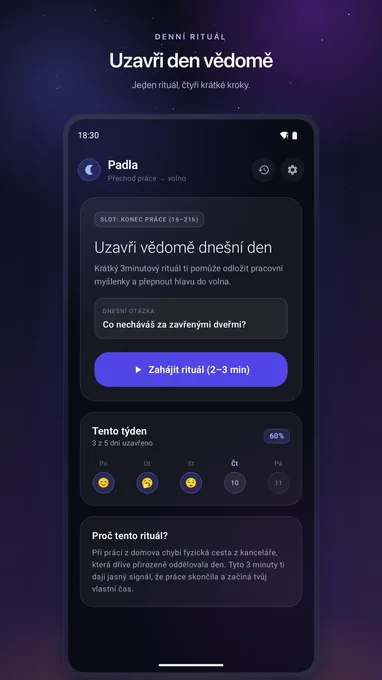
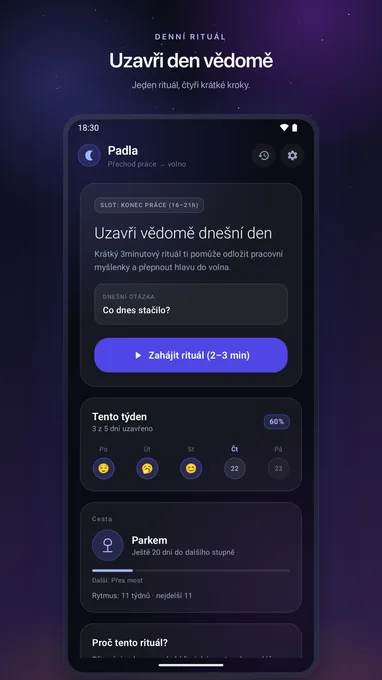
CL-WEB: česká verze webu s novinkami 1.3.0, navigace na úzkých displejích
- sekce Cesta domů a Noční obloha, aktualizované funkce a soukromí
- osm českých screenshotů z Google Play 1.3.0
- název aplikace v české verzi sjednocen na Padla
- navigace postupně skrývá odkazy, aby se vešla i na úzké displeje

diff --git a/cs/index.html b/cs/index.html
@@ -11,7 +11,7 @@
 })();
 </script>
 <meta name="viewport" content="width=device-width, initial-scale=1.0">
-<title>ClockOut — Ukonči pracovní den vědomě</title>
+<title>Padla — Ukonči pracovní den vědomě</title>
 <meta name="description" content="Tříminutový rituál na konec pracovního dne, aby nezasahoval do večera. Zdarma, soukromé, bez reklam.">
 <link rel="canonical" href="https://ruzickaond.github.io/clockout-app-web/cs/">
 <link rel="alternate" hreflang="en" href="https://ruzickaond.github.io/clockout-app-web/">
@@ -23,12 +23,12 @@
 <link rel="manifest" href="../site.webmanifest">
 
 <meta property="og:type" content="website">
-<meta property="og:title" content="ClockOut — Ukonči pracovní den vědomě">
+<meta property="og:title" content="Padla — Ukonči pracovní den vědomě">
 <meta property="og:description" content="Tříminutový rituál na konec pracovního dne, aby nezasahoval do večera. Zdarma, soukromé, bez reklam.">
 <meta property="og:url" content="https://ruzickaond.github.io/clockout-app-web/cs/">
 <meta property="og:image" content="https://play-lh.googleusercontent.com/MNSv7ECEiLILvRtvFfzArZCT3wae8mAfHuKnqLDiFg-m8raJEzzhiiYgs5hn_9fF_Y8qldCKCaHu7s63d5mgTw=w512-h512">
 <meta name="twitter:card" content="summary">
-<meta name="twitter:title" content="ClockOut — Ukonči pracovní den vědomě">
+<meta name="twitter:title" content="Padla — Ukonči pracovní den vědomě">
 <meta name="twitter:description" content="Tříminutový rituál na konec pracovního dne, aby nezasahoval do večera.">
 <meta name="twitter:image" content="https://play-lh.googleusercontent.com/MNSv7ECEiLILvRtvFfzArZCT3wae8mAfHuKnqLDiFg-m8raJEzzhiiYgs5hn_9fF_Y8qldCKCaHu7s63d5mgTw=w512-h512">
 
@@ -36,7 +36,8 @@
 {
   "@context": "https://schema.org",
   "@type": "SoftwareApplication",
-  "name": "ClockOut",
+  "name": "Padla",
+  "alternateName": "ClockOut",
   "operatingSystem": "ANDROID",
   "applicationCategory": "LifestyleApplication",
   "url": "https://ruzickaond.github.io/clockout-app-web/cs/",
@@ -123,6 +124,7 @@
   }
 
   .site-nav a{
+    white-space:nowrap;
     font-size:14px;
     color:var(--muted);
     text-decoration:none;
@@ -149,6 +151,25 @@
 
   @media (max-width:560px){
     .site-nav ul{ gap:18px; }
+  }
+
+  @media (max-width:420px){
+    .site-nav ul{ gap:12px; }
+    .site-nav a{ font-size:13px; }
+    .site-nav .mark{ font-size:17px; }
+  }
+
+  /* The sections hidden first sit directly below the ones still linked. */
+  @media (max-width:520px){
+    .site-nav .nav-screens{ display:none; }
+  }
+
+  @media (max-width:440px){
+    .site-nav .nav-ritual{ display:none; }
+  }
+
+  @media (max-width:374px){
+    .site-nav .nav-details{ display:none; }
   }
 
   /* ---------- Hero ---------- */
@@ -306,6 +327,13 @@
     font-weight:600;
     font-size:17px;
     margin:0 0 6px;
+  }
+
+  .step-icon{
+    width:24px;
+    height:24px;
+    display:block;
+    margin-top:4px;
   }
 
   .step p{
@@ -524,11 +552,12 @@
 
 <nav class="site-nav">
   <div class="wrap">
-    <span class="mark">ClockOut</span>
+    <span class="mark">Padla</span>
     <ul>
-      <li><a href="#ritual">Rituál</a></li>
-      <li><a href="#screens">Ukázky</a></li>
-      <li><a href="#details">Podrobnosti</a></li>
+      <li class="nav-ritual"><a href="#ritual">Rituál</a></li>
+      <li><a href="#way-home">Cesta domů</a></li>
+      <li class="nav-screens"><a href="#screens">Ukázky</a></li>
+      <li class="nav-details"><a href="#details">Podrobnosti</a></li>
       <li><a class="lang-switch" href="../" onclick="try{localStorage.setItem('clockout-lang','en')}catch(e){}">EN</a></li>
     </ul>
   </div>
@@ -545,7 +574,7 @@
     </div>
     <h1>Pracovní den si zaslouží konec, ne pozvolné vyznění.</h1>
     <p class="lede">Tříminutový rituál na konec práce z domova — aby zavření notebooku doopravdy znamenalo konec dne.</p>
-    <a class="cta" href="https://play.google.com/store/apps/details?id=org.clockout&hl=cs" aria-label="Stáhnout ClockOut na Google Play">
+    <a class="cta" href="https://play.google.com/store/apps/details?id=org.clockout&hl=cs" aria-label="Stáhnout aplikaci Padla na Google Play">
       <img class="cta-badge" width="253" height="98" src="https://play.google.com/intl/en_us/badges/static/images/badges/cs_badge_web_generic.png" alt="Stáhnout na Google Play" onerror="this.style.display='none'; this.nextElementSibling.style.display='inline-flex';">
       <span class="cta-fallback">
         <svg viewBox="0 0 24 24" fill="currentColor" xmlns="http://www.w3.org/2000/svg"><path d="M8 5v14l11-7z"/></svg>
@@ -568,7 +597,7 @@
         <div class="num">2</div>
         <div>
           <h3>Dýchej</h3>
-          <p>Pomalý rytmus čtyři sekundy nádech, čtyři sekundy výdech, s jemným vizuálním pulzem a možností ambientního zvuku.</p>
+          <p>Pomalý rytmus čtyři sekundy nádech, čtyři sekundy výdech, se čtyřmi animacemi na výběr, volitelným zvukovým doprovodem a jemnou haptikou.</p>
         </div>
       </div>
       <div class="step">
@@ -588,26 +617,65 @@
     </div>
   </section>
 
+  <section id="way-home">
+    <h2>Každý večer o kus blíž domů.</h2>
+    <div class="ritual">
+      <div class="step">
+        <div class="num">
+          <svg class="step-icon" viewBox="0 0 24 24" aria-hidden="true"><path d="M4 20c4-2 5-6 8-8s5-1 8-6" fill="none" stroke="currentColor" stroke-width="1.8" stroke-linecap="round"/><circle cx="20" cy="6" r="2" fill="currentColor"/></svg>
+        </div>
+        <div>
+          <h3>Cesta domů</h3>
+          <p>Práce z domova vzala cestu z kanceláře, která dřív den přirozeně ukončila. Každý uzavřený den tě po ní posune o kus dál — deset stupňů, od Zaklapnutého notebooku přes Most a Branku až po Doma.</p>
+        </div>
+      </div>
+      <div class="step">
+        <div class="num">
+          <svg class="step-icon" viewBox="0 0 24 24" aria-hidden="true"><path d="M5 7l5 3 4-4 5 7" fill="none" stroke="currentColor" stroke-width="1.4" stroke-linecap="round" stroke-linejoin="round" opacity="0.6"/><circle cx="5" cy="7" r="1.8" fill="currentColor"/><circle cx="10" cy="10" r="1.8" fill="currentColor"/><circle cx="14" cy="6" r="1.8" fill="currentColor"/><circle cx="19" cy="13" r="1.8" fill="currentColor"/><circle cx="8" cy="18" r="1.2" fill="currentColor" opacity="0.6"/></svg>
+        </div>
+        <div>
+          <h3>Noční obloha</h3>
+          <p>Za každý uzavřený den se rozsvítí hvězda v barvě nálady, se kterou jsi den zavřel(a). Když je týden v rytmu, hvězdy se spojí do souhvězdí — každý z 53 týdnů v roce má to své, od Hrnku čaje v lednu po Jedličku v prosinci, a každý rok se vrací.</p>
+        </div>
+      </div>
+      <div class="step">
+        <div class="num">
+          <svg class="step-icon" viewBox="0 0 24 24" aria-hidden="true"><path d="M12 3c-3 4-6 6-6 10a6 6 0 0 0 12 0c0-4-3-6-6-10z" fill="none" stroke="currentColor" stroke-width="1.8" stroke-linejoin="round"/></svg>
+        </div>
+        <div>
+          <h3>Tichá sbírka, ne výkonnostní tabulka</h3>
+          <p>Nic se z ní neztratí. Vynechaný den nic nezhasne, jeden slabší týden rytmus nepřeruší a postup zůstane i po smazání historie.</p>
+        </div>
+      </div>
+    </div>
+  </section>
+
   <section id="screens">
     <h2>Jak to vypadá</h2>
     <div class="screens">
-      <button type="button" class="screen-thumb" data-full="01@2x.webp" aria-label="Zvětšit screenshot: přehled denního rituálu">
-        <img loading="lazy" decoding="async" width="191" height="340" src="01.webp" srcset="01.webp 1x, 01@2x.webp 2x" alt="ClockOut — přehled denního rituálu">
+      <button type="button" class="screen-thumb" data-full="01@2x.webp" aria-label="Zvětšit screenshot: domovská obrazovka s dnešní otázkou a týdnem">
+        <img loading="lazy" decoding="async" width="191" height="340" src="01.webp" srcset="01.webp 1x, 01@2x.webp 2x" alt="Padla — domovská obrazovka s dnešní otázkou a týdnem">
       </button>
-      <button type="button" class="screen-thumb" data-full="02@2x.webp" aria-label="Zvětšit screenshot: krok Odlož myšlenky">
-        <img loading="lazy" decoding="async" width="191" height="340" src="02.webp" srcset="02.webp 1x, 02@2x.webp 2x" alt="ClockOut — krok Odlož myšlenky">
+      <button type="button" class="screen-thumb" data-full="02@2x.webp" aria-label="Zvětšit screenshot: noční obloha se souhvězdími měsíce">
+        <img loading="lazy" decoding="async" width="191" height="340" src="02.webp" srcset="02.webp 1x, 02@2x.webp 2x" alt="Padla — noční obloha se souhvězdími měsíce">
       </button>
-      <button type="button" class="screen-thumb" data-full="03@2x.webp" aria-label="Zvětšit screenshot: krok Dýchání">
-        <img loading="lazy" decoding="async" width="191" height="340" src="03.webp" srcset="03.webp 1x, 03@2x.webp 2x" alt="ClockOut — krok Dýchání">
+      <button type="button" class="screen-thumb" data-full="03@2x.webp" aria-label="Zvětšit screenshot: cesta domů, deset stupňů cesty z kanceláře">
+        <img loading="lazy" decoding="async" width="191" height="340" src="03.webp" srcset="03.webp 1x, 03@2x.webp 2x" alt="Padla — cesta domů, deset stupňů cesty z kanceláře">
       </button>
-      <button type="button" class="screen-thumb" data-full="04@2x.webp" aria-label="Zvětšit screenshot: krok Zhasnutí lampy">
-        <img loading="lazy" decoding="async" width="191" height="340" src="04.webp" srcset="04.webp 1x, 04@2x.webp 2x" alt="ClockOut — krok Zhasnutí lampy">
+      <button type="button" class="screen-thumb" data-full="04@2x.webp" aria-label="Zvětšit screenshot: krok Odlož myšlenky">
+        <img loading="lazy" decoding="async" width="191" height="340" src="04.webp" srcset="04.webp 1x, 04@2x.webp 2x" alt="Padla — krok Odlož myšlenky">
       </button>
-      <button type="button" class="screen-thumb" data-full="05@2x.webp" aria-label="Zvětšit screenshot: krok Zápis nálady">
-        <img loading="lazy" decoding="async" width="191" height="340" src="05.webp" srcset="05.webp 1x, 05@2x.webp 2x" alt="ClockOut — krok Zápis nálady">
+      <button type="button" class="screen-thumb" data-full="05@2x.webp" aria-label="Zvětšit screenshot: krok Dýchání">
+        <img loading="lazy" decoding="async" width="191" height="340" src="05.webp" srcset="05.webp 1x, 05@2x.webp 2x" alt="Padla — krok Dýchání">
       </button>
-      <button type="button" class="screen-thumb" data-full="06@2x.webp" aria-label="Zvětšit screenshot: přehled historie rituálů">
-        <img loading="lazy" decoding="async" width="191" height="340" src="06.webp" srcset="06.webp 1x, 06@2x.webp 2x" alt="ClockOut — přehled historie rituálů">
+      <button type="button" class="screen-thumb" data-full="06@2x.webp" aria-label="Zvětšit screenshot: krok Zhasnutí lampy">
+        <img loading="lazy" decoding="async" width="191" height="340" src="06.webp" srcset="06.webp 1x, 06@2x.webp 2x" alt="Padla — krok Zhasnutí lampy">
+      </button>
+      <button type="button" class="screen-thumb" data-full="07@2x.webp" aria-label="Zvětšit screenshot: krok Zápis nálady">
+        <img loading="lazy" decoding="async" width="191" height="340" src="07.webp" srcset="07.webp 1x, 07@2x.webp 2x" alt="Padla — krok Zápis nálady">
+      </button>
+      <button type="button" class="screen-thumb" data-full="08@2x.webp" aria-label="Zvětšit screenshot: historie nálad, odpovědí a noční obloha">
+        <img loading="lazy" decoding="async" width="191" height="340" src="08.webp" srcset="08.webp 1x, 08@2x.webp 2x" alt="Padla — historie nálad, odpovědí a noční obloha">
       </button>
     </div>
   </section>
@@ -617,19 +685,22 @@
       <div>
         <h2>Co je uvnitř</h2>
         <ul class="checklist">
-          <li>Denní připomínka na konci pracovní doby s rychlým nastavením času</li>
+          <li>Denní připomínka na konci pracovní doby — rychlé předvolby, nebo vlastní čas</li>
           <li>Jen všední dny, nebo každý den — podle tebe</li>
-          <li>Série a historie bez tlaku žebříčků</li>
-          <li>Čtyři ambientní zvuky: tibetská mísa, déšť, oceán, nebo ticho s vibracemi</li>
+          <li>Cesta domů s týdenním rytmem a noční obloha s 53 souhvězdími</li>
+          <li>Historie nálad a odpovědí bez tlaku žebříčků</li>
+          <li>Čtyři animace dýchání a čtyři ambientní zvuky: tibetská mísa, déšť, oceán, nebo ticho s vibracemi</li>
           <li>Nahraj si vlastní MP3, WAV, OGG, M4A nebo FLAC, který se bude během rituálu opakovat</li>
+          <li>Flexibilní pracovní doba — rituál lze povolit kdykoliv, nejen mezi 16:00 a 21:00</li>
           <li>Angličtina a čeština, přepínatelné v appce</li>
-          <li>Design Material 3 s klidným tmavým motivem</li>
+          <li>Design Material 3 s klidným tmavým motivem a displejem, který během rituálu nezhasne</li>
         </ul>
       </div>
       <div class="privacy">
         <h2>Soukromé od základu</h2>
-        <p><strong>Všechno zůstává v tvém telefonu.</strong> Poznámky, nálady i historie žijí v lokální databázi — žádný účet, žádná cloudová synchronizace, žádné reklamy.</p>
-        <p>Nic z toho, co napíšeš, se nikam neodesílá. Kdykoliv to jedním ťuknutím v Nastavení smažeš.</p>
+        <p><strong>Všechno zůstává v tvém telefonu.</strong> Poznámky, nálady, historie i noční obloha žijí v lokální databázi — žádný účet, žádná cloudová synchronizace, žádné reklamy.</p>
+        <p>Nic z toho, co napíšeš, se nikam neodesílá. Historii kdykoliv jedním ťuknutím v Nastavení smažeš; cesta a obloha si pamatují jen data uzavřených dní.</p>
+        <p>Anonymní diagnostika pro opravu chyb je volitelná a bez tvého souhlasu zůstává vypnutá.</p>
       </div>
     </div>
   </section>

diff --git a/index.html b/index.html
@@ -160,8 +160,17 @@
     .site-nav .mark{ font-size:17px; }
   }
 
-  @media (max-width:374px){
+  /* The sections hidden first sit directly below the ones still linked. */
+  @media (max-width:520px){
     .site-nav .nav-screens{ display:none; }
+  }
+
+  @media (max-width:440px){
+    .site-nav .nav-ritual{ display:none; }
+  }
+
+  @media (max-width:374px){
+    .site-nav .nav-details{ display:none; }
   }
 
   /* ---------- Hero ---------- */
@@ -546,10 +555,10 @@
   <div class="wrap">
     <span class="mark">ClockOut</span>
     <ul>
-      <li><a href="#ritual">Ritual</a></li>
+      <li class="nav-ritual"><a href="#ritual">Ritual</a></li>
       <li><a href="#way-home">Way home</a></li>
       <li class="nav-screens"><a href="#screens">Screens</a></li>
-      <li><a href="#details">Details</a></li>
+      <li class="nav-details"><a href="#details">Details</a></li>
       <li><a class="lang-switch" href="cs/" onclick="try{localStorage.setItem('clockout-lang','cs')}catch(e){}">CS</a></li>
     </ul>
   </div>
